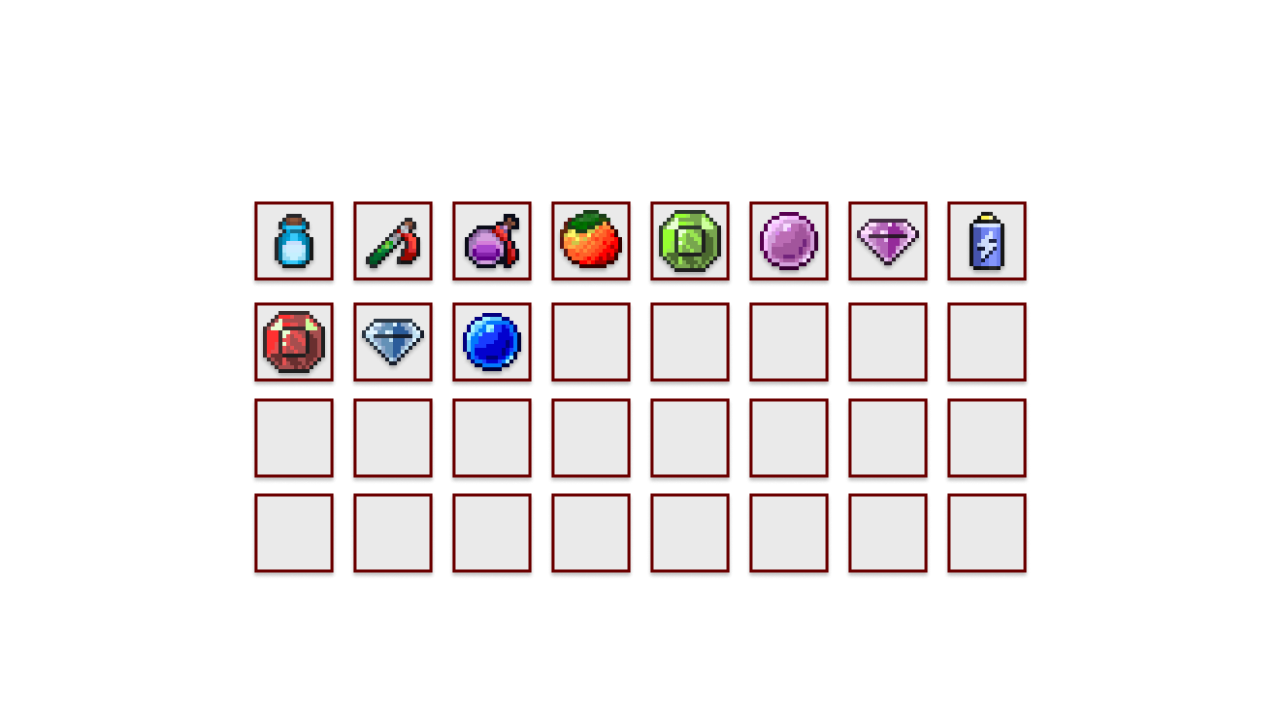
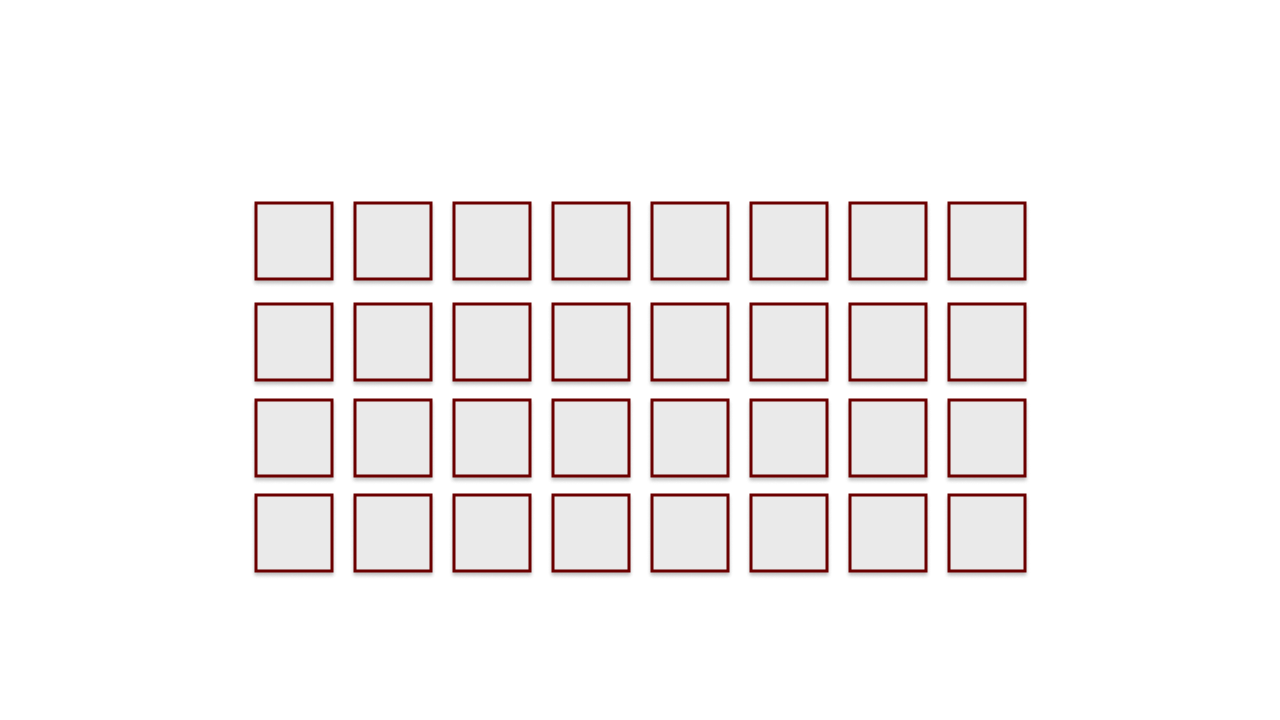
Vamoooooos

diff --git a/NexusStudios_Project-II_DraggedOffTime/Game/Source/Item.cpp b/NexusStudios_Project-II_DraggedOffTime/Game/Source/Item.cpp
@@ -24,6 +24,7 @@ bool Item::Awake() {
 
 	position.x = parameters.attribute("x").as_int();
 	position.y = parameters.attribute("y").as_int();
+	iconPath = parameters.attribute("iconpath").as_string();
 	texturePath = parameters.attribute("texturepath").as_string();
 	audioPath = parameters.attribute("audiopath").as_string();
 
@@ -84,6 +85,7 @@ bool Item::Awake() {
 bool Item::Start() {
 
 	texture = app->tex->Load(texturePath);
+	icon = app->tex->Load(iconPath);
 
 	int width = 16;
 	int height = 16;

diff --git a/NexusStudios_Project-II_DraggedOffTime/Game/Source/Inventory.cpp b/NexusStudios_Project-II_DraggedOffTime/Game/Source/Inventory.cpp
@@ -52,7 +52,7 @@ bool Inventory::PostUpdate()
 		//	TODO 4: Show the items' sprites in the inventory
 		for (int i = 0; i < nrOfItems; i++)
 		{
-			app->render->DrawTexture(items[i]->texture, 182 + 32 * i, 132, &SDL_Rect({ 0,0,16,18 }));
+			app->render->DrawTexture(items[i]->icon, 264 + 98 * i, 210, &SDL_Rect({ 0,0,62,62 }));
 		}
 	}
 

diff --git a/NexusStudios_Project-II_DraggedOffTime/Game/Source/Item.h b/NexusStudios_Project-II_DraggedOffTime/Game/Source/Item.h
@@ -48,6 +48,9 @@ public:
 public:
 
 	SDL_Texture* texture;
+	SDL_Texture* icon;
+
+	const char* iconPath;
 	const char* texturePath;
 	const char* audioPath;
 
